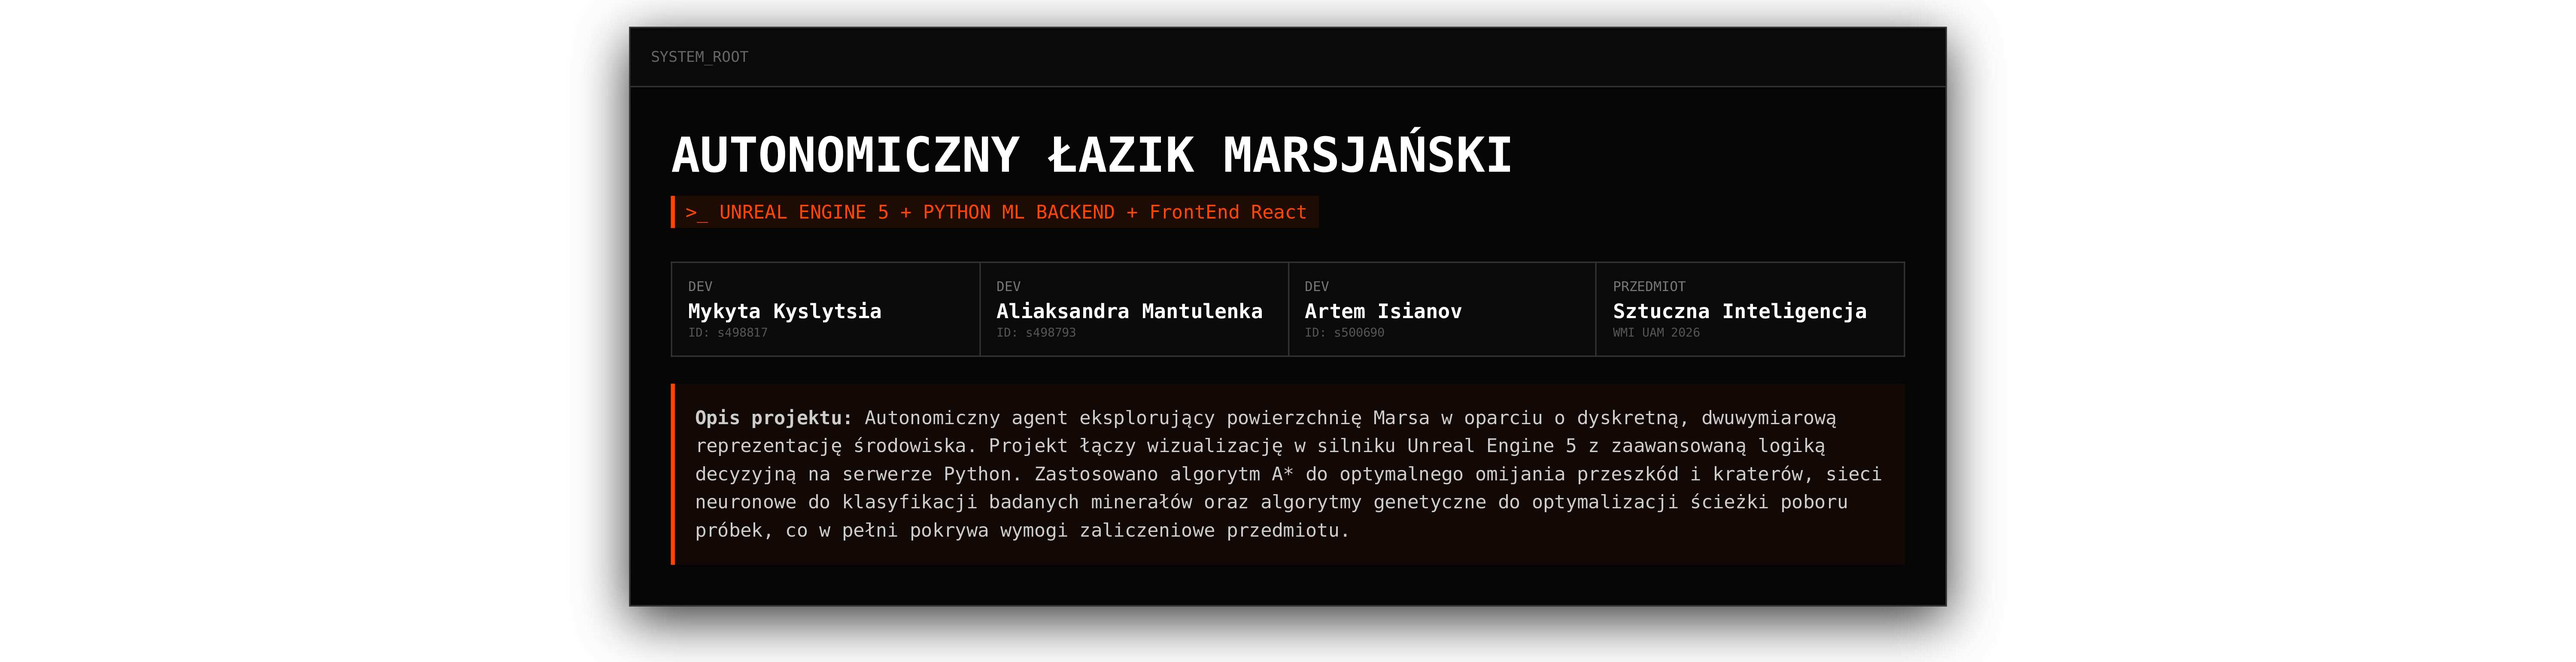
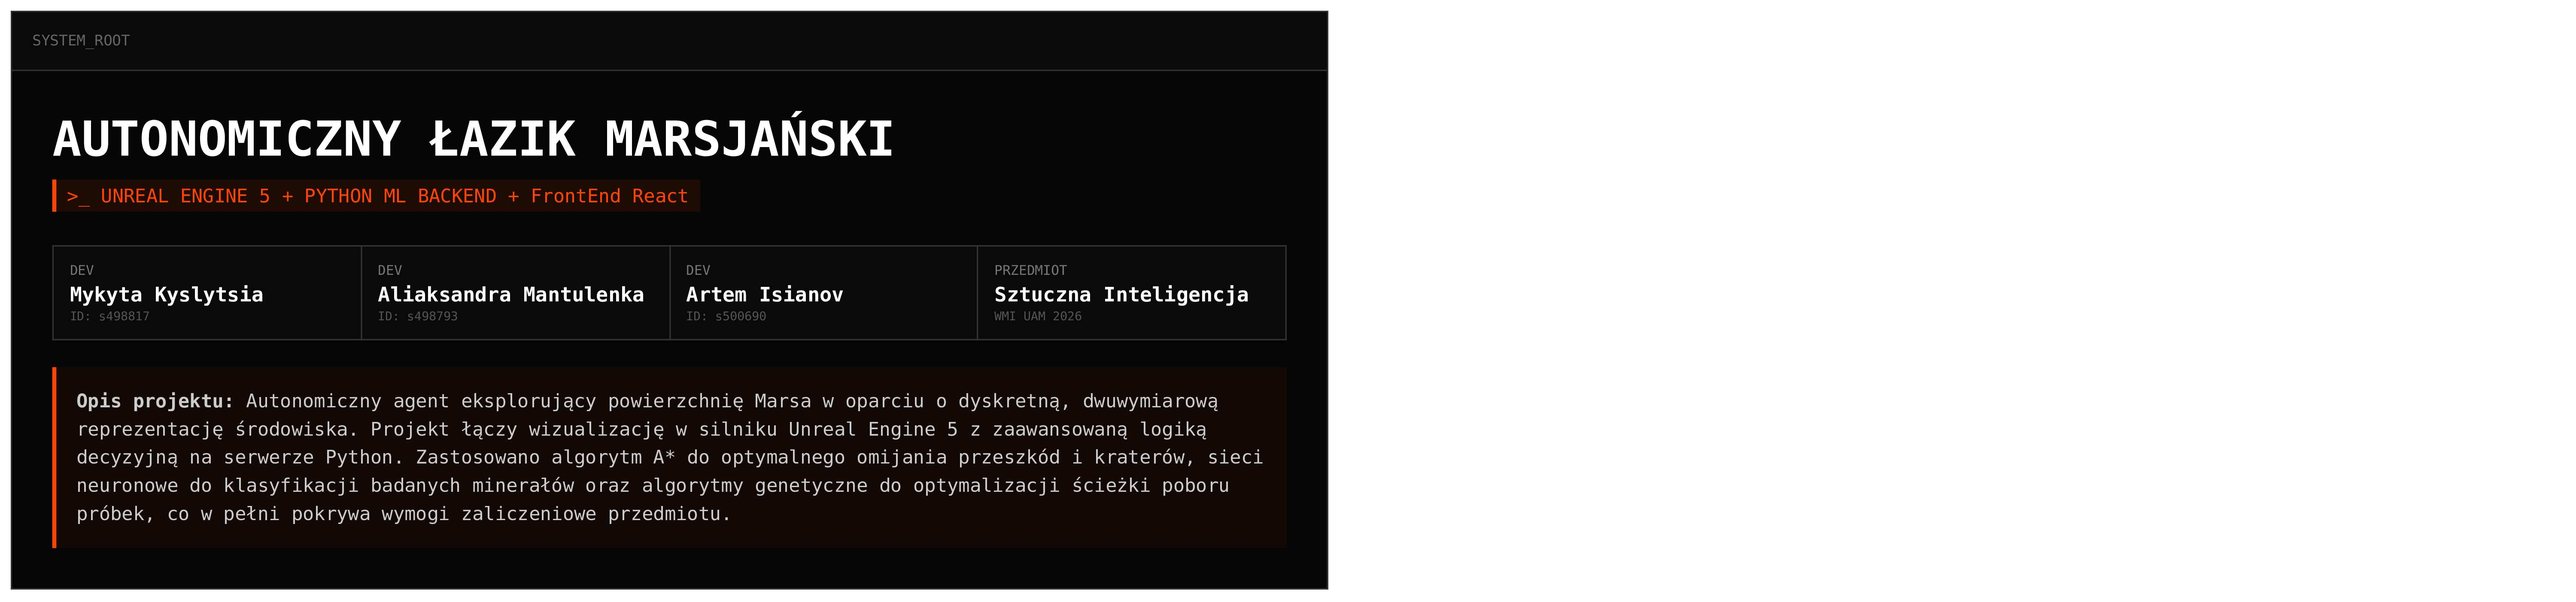
feat: new README.md -v2

diff --git a/assets/index.html b/assets/index.html
@@ -1,0 +1,48 @@
+<div align="center" style="font-family: monospace; background: #050505; color: #e5e5e5; margin: 0; width: 980px; border: 1px solid #333; overflow: hidden;">
+    <!-- HEADER LINE -->
+    <div style="display: flex; justify-content: space-between; border-bottom: 1px solid #333; padding: 15px; background: #0a0a0a; font-size: 11px; color: #666;">
+        <span>SYSTEM_ROOT</span>
+    </div>
+    <!-- MAIN CONTENT -->
+    <div style="padding: 30px; text-align: left;">
+        <h1 style="font-size: 36px; text-transform: uppercase; margin: 0 0 10px; color: #fff; border: none;">
+            Autonomiczny Łazik Marsjański
+        </h1>
+        <div style="font-size: 14px; color: #ff4500; margin: 0 0 25px; padding: 4px 8px; border-left: 3px solid #ff4500; background: rgba(255,69,0,0.1); display: inline-block;">
+            &gt;_ UNREAL ENGINE 5 + PYTHON ML BACKEND + FrontEnd React
+        </div>
+        <!-- TEAM GRID (Table for GitHub compatibility) -->
+        <table width="100%" style="border-collapse: collapse; margin-bottom: 20px; border: 1px solid #333;">
+            <tr style="background: #0a0a0a;">
+                <!-- Member 1 -->
+                <td width="25%" style="padding: 12px; border: 1px solid #333; vertical-align: top;">
+                    <div style="font-size: 10px; text-transform: uppercase; color: #777; margin-bottom: 4px;">Dev</div>
+                    <div style="font-size: 15px; color: #fff; font-weight: bold;">Mykyta Kyslytsia</div>
+                    <div style="font-size: 9px; color: #555; margin-top: 2px;">ID: s498817</div>
+                </td>
+                <!-- Member 2 -->
+                <td width="25%" style="padding: 12px; border: 1px solid #333; vertical-align: top;">
+                    <div style="font-size: 10px; text-transform: uppercase; color: #777; margin-bottom: 4px;">Dev</div>
+                    <div style="font-size: 15px; color: #fff; font-weight: bold;">Aliaksandra Mantulenka</div>
+                    <div style="font-size: 9px; color: #555; margin-top: 2px;">ID: s498793</div>
+                </td>
+                <!-- Member 3 -->
+                <td width="25%" style="padding: 12px; border: 1px solid #333; vertical-align: top;">
+                    <div style="font-size: 10px; text-transform: uppercase; color: #777; margin-bottom: 4px;">Dev</div>
+                    <div style="font-size: 15px; color: #fff; font-weight: bold;">Artem Isianov</div>
+                    <div style="font-size: 9px; color: #555; margin-top: 2px;">ID: s500690</div>
+                </td>
+                <!-- Subject -->
+                <td width="25%" style="padding: 12px; border: 1px solid #333; vertical-align: top;">
+                    <div style="font-size: 10px; text-transform: uppercase; color: #777; margin-bottom: 4px;">Przedmiot</div>
+                    <div style="font-size: 15px; color: #fff; font-weight: bold;">Sztuczna Inteligencja</div>
+                    <div style="font-size: 9px; color: #555; margin-top: 2px;">WMI UAM 2026</div>
+                </td>
+            </tr>
+        </table>
+        <!-- DESCRIPTION -->
+        <div style="padding: 15px; background: rgba(255,69,0,0.05); border-left: 3px solid #ff4500; font-size: 14px; line-height: 1.5; color: #ccc;">
+            <strong>Opis projektu:</strong> Autonomiczny agent eksplorujący powierzchnię Marsa w oparciu o dyskretną, dwuwymiarową reprezentację środowiska. Projekt łączy wizualizację w silniku Unreal Engine 5 z zaawansowaną logiką decyzyjną na serwerze Python. Zastosowano algorytm A* do optymalnego omijania przeszkód i kraterów, sieci neuronowe do klasyfikacji badanych minerałów oraz algorytmy genetyczne do optymalizacji ścieżki poboru próbek, co w pełni pokrywa wymogi zaliczeniowe przedmiotu.
+        </div>
+    </div>
+</div>
